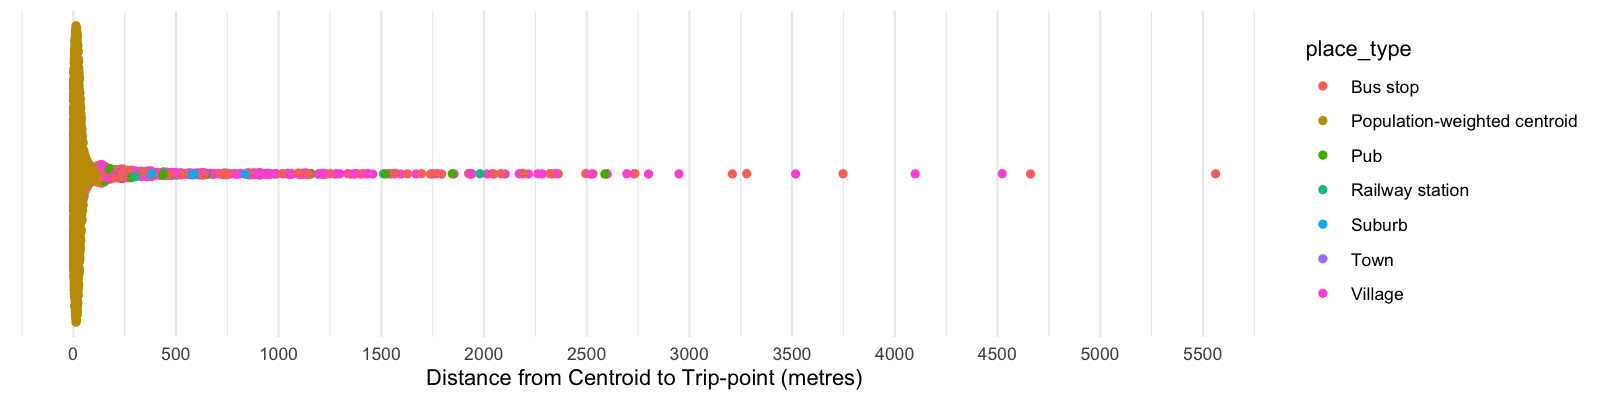
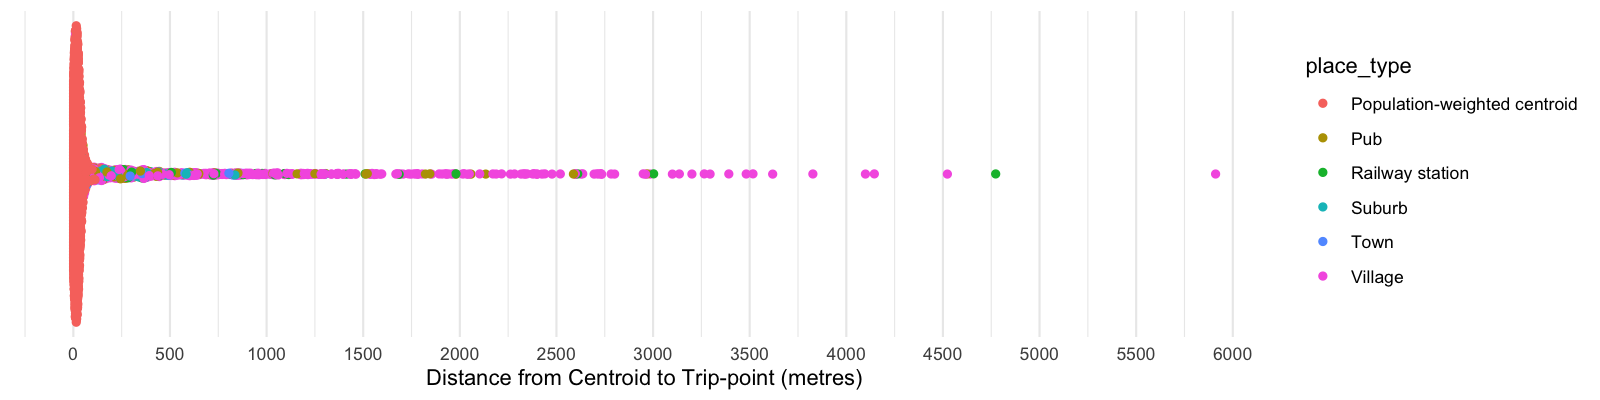
Fix README

diff --git a/README.md b/README.md
@@ -1,41 +1,21 @@
-# LSOA11 Trip-points for Wales
+This repository geographical trip-points for each 2011 Lower Layer Super Output Area (LSOA11) in Wales and bordering areas in England for transport-related analysis.
 
-This repository contains code to generate geographical trip-points for each 2011 Lower Layer Super Output Area (LSOA11) in Wales and bordering areas in England for transport-related analysis.
+You can find [the code used to generate these trip-points here](https://github.com/stupidpupil/wales_lsoa_trip_points/tree/main).
 
-You can find [the latest release of these trip-points here](https://github.com/stupidpupil/wales_lsoa_trip_points/tree/points-releases).
+## Distance of Trip-points from Centroids
 
-It attempts to address the problem that for some LSOAs, particularly rural ones, the [population-weighted centroid](https://geoportal.statistics.gov.uk/documents/b20460edf2f3459fa7d2771eacab51fc/explore) might be in the middle of nowhere - far away from any actual place, public transport stop or road. Trip planners may not be able to find routes to and from these centroids.
+The plot below shows the distance of the trip-point from the population-weighted centroids for each LSOA.
 
-## Method
+![](distance_plot.png)
 
-These “trip-points” are generated in a two-step process:
-1. For roughly the third of Welsh LSOAs with the greatest areas, I find the village, town, bus stop, train station or pub nearest to the population-weighted centroid.
+## License
 
-2.  For each LSOA, I find the nearest motor-vehicle accessible road to a) the place found in the first step for the 600 or so biggest LSOAs or b) the population-weighted centroid for the 1,300 or so remaining LSOAs.
+The trip-points are made available under the [ODbL v1.0](https://opendatacommons.org/licenses/odbl/1-0/) by Adam Watkins.
 
-The first step attempts to find points where it might actually be possible to start a public transport journey, while the second step all but guarantees that it will be possible to start a car-based journey.
+The trip-points are derived from several datasets provided by the Office for National Statistics licensed under the Open Government Licence v.3.0 and contain OS Data © Crown copyright and database right 2021.
 
-## Advantages and disadvantages of LSOA-level analysis
+These datasets include:
+- [LSOA11 Population-Weighted Centroids](https://geoportal.statistics.gov.uk/datasets/ons::lower-layer-super-output-areas-december-2011-population-weighted-centroids/about)
+- [LSOA11 Boundaries](https://geoportal.statistics.gov.uk/datasets/ons::lower-layer-super-output-areas-december-2011-boundaries-super-generalised-clipped-bsc-ew-v3/about)
 
-- Many existing analytical products are only available at LSOA-level or higher, for example [Car and van availability from the 2011 Census](https://www.nomisweb.co.uk/census/2011/qs416ew) and different countries' [Indices of Deprivation](https://github.com/mysociety/composite_uk_imd).
-
-- LSOAs are a relatively manageable number of data points (1909 in Wales) resulting in relatively manageable travel-time matrices (around 3.6 million cells in Wales), in contrast to Output Areas (ten thousand OAs resulting in 100 million cells in a travel time matrix).
-
-- Rural LSOAs can have very large geographical areas containing multiple scattered settlements; a single trip-point for such an area may be extremely unrepresentative, and accessibility - particularly for public transport - determined based on such a point may be quite misleading.
-
-## Known Issues
-
-- Some routers (including OpenTripPlanner) may have issues navigating from roads that don't have access restrictions themselves but are accessible only via roads that do. 
-
-- Not all bus stops and railway stations are mapped in OpenStreetMap. In particular, many of the former are missing from rural parts of Wales. This may lead to suboptimal place selection in the first step. (An alternative might be to use the NaPTAN database.)
-
-## How-to
-
-```r
-devtools::load_all()
-decide_lsoas()
-download_osm()
-extract_osm()
-decide_place_points()
-decide_nearest_road_points()
-```
+They are also derived from information about places and roads obtained from [OpenStreetMap contributors](https://www.openstreetmap.org/copyright), via [Geofabrik.de](https://download.geofabrik.de/europe/great-britain.html), under the [ODbL v1.0](https://opendatacommons.org/licenses/odbl/1-0/).
